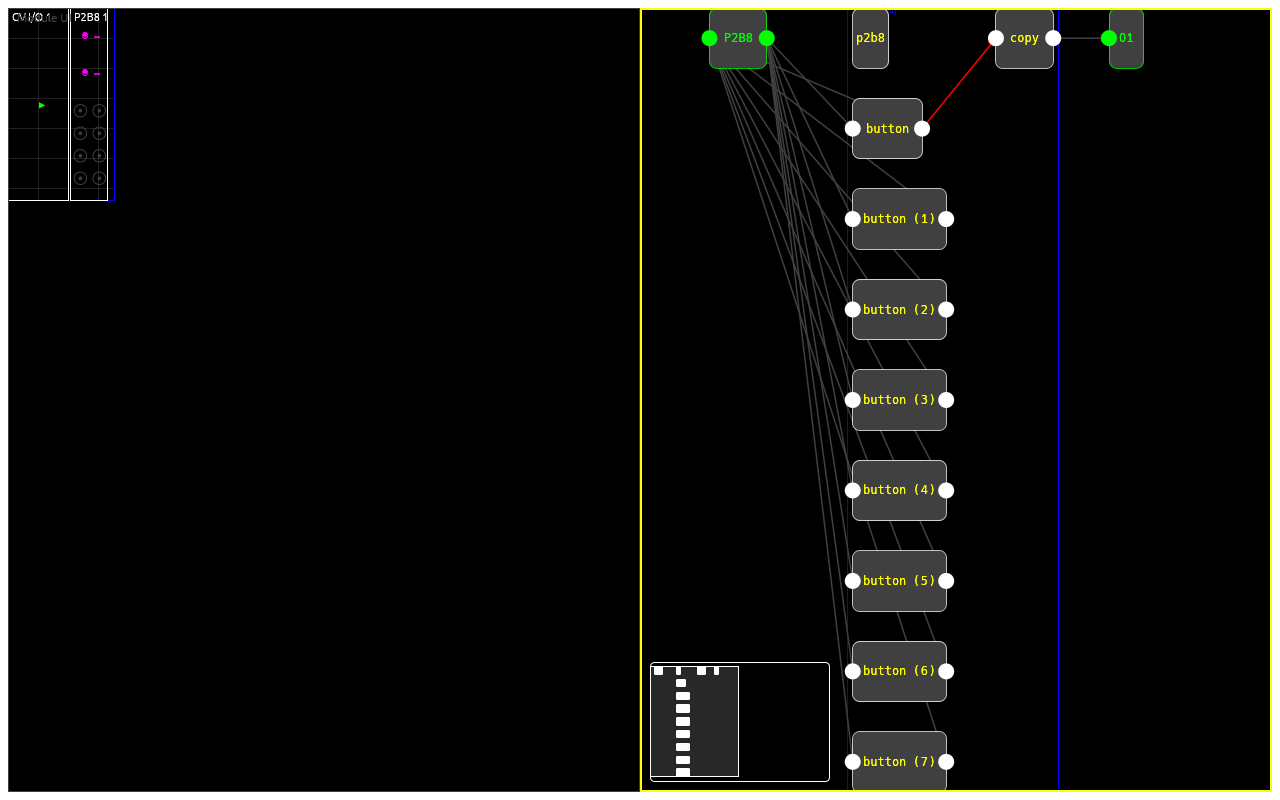
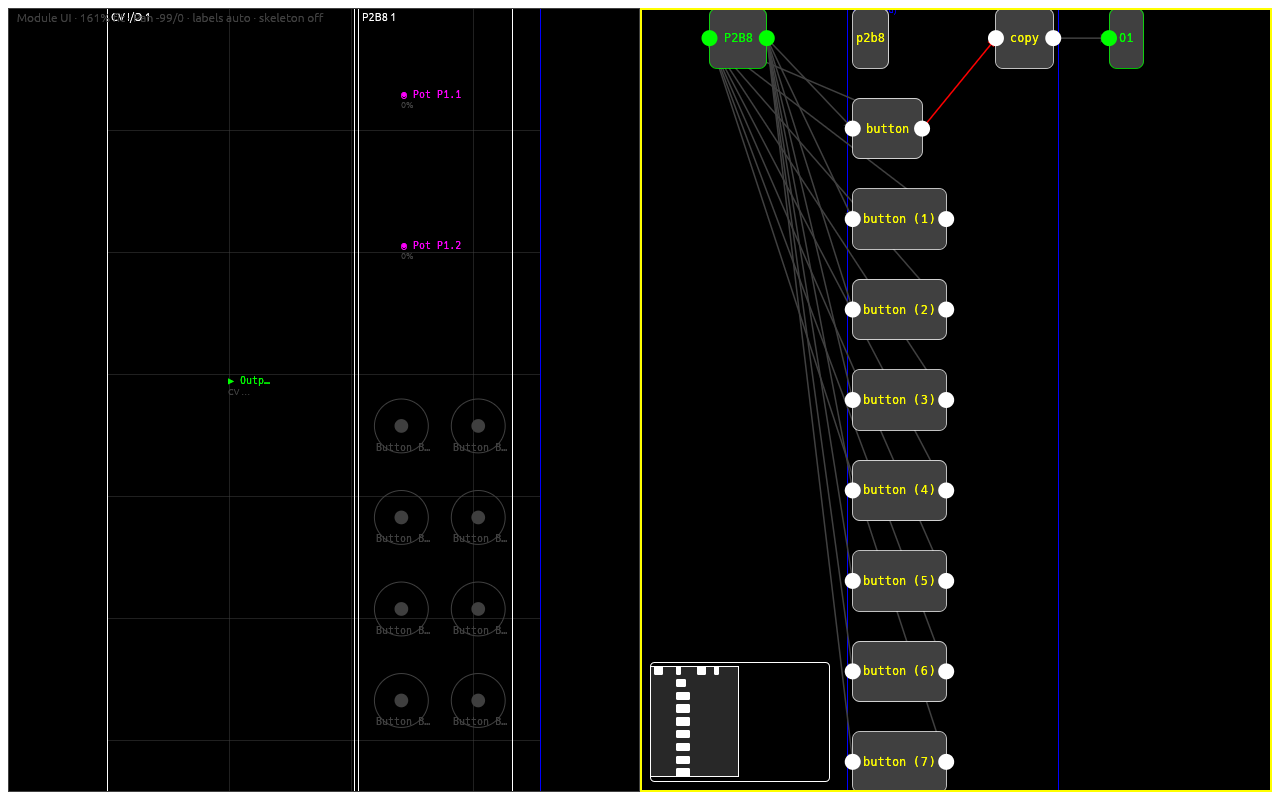
3.4: re-render module-UI shots at true 1:1 and add the annotation-layer shot
The 1:1 rebaseline and fit-on-open move every module-UI-bearing render: the
rack now paints at 3.7795 pt/mm and the pane fits and centres it, so the
module-UI pane of module-ui, graph, optimizer, faceplate-rotary-stack,
button-led-composition, led-register-colour, unreferenced-elements,
shift-colour, s10-switch-kinds, sections-lanes, sections-scale and
force-arrangement is re-blessed. Their graph/optimizer/viewer panes stay
pixel-identical to the previous renders (verified by crop compare) and
source-viewer.png is byte-identical, so no graph-side paint changed.

New module-ui-labels.png pins the camera at true 1:1 (setup_labels_auto,
centred from the pane geometry the first frame publishes) because the fit
would scale fixtures/module_ui_labels.ini past the size its preamble labels
were chosen for; the default `auto` presentation annotates exactly the two
clipped labels as side-bound callouts with leader lines and leaves the
fitting one in its cell.

tools/screenshots/README.md records the before/after fit and the label-mode
evidence, and its shot table names the fit zoom instead of the 2x seed the
fit supersedes.

diff --git a/tools/screenshots/src/main.rs b/tools/screenshots/src/main.rs
@@ -131,13 +131,60 @@ struct Shot {
 
 fn setup_startup(_app: &mut App) {}
 
+/// The annotation-layer shot (change `module-ui-labels`, task 3.4): the startup
+/// arrangement at true 1:1, the size `fixtures/module_ui_labels.ini`'s preamble
+/// labels were chosen for — at 1:1 a 9 mm B32 button cell budgets five 10 pt
+/// characters, so "Trigger input" and "Clock reset" clip while "Go" fits, and
+/// the default `auto` presentation annotates exactly the two clipped labels.
+///
+/// The startup fit would scale this ~91 mm rack past 1:1 (the harness pane is
+/// taller than one true-size rack), which both hides the clipping and leaves no
+/// side band for the callouts, so the shot pins the zoom. The camera is centred
+/// for the pinned zoom without hard-coding a layout number: the startup pane is
+/// published through the same `refresh_hit_geometry` call the first painted
+/// frame makes, one fit gives the rack's real extent (the fit offset is
+/// `(rack·zoom − pane)/2` per axis), and the pinned offset re-centres that same
+/// extent. The manual-navigation latch then keeps the pane-resize trigger from
+/// refitting over the pinned camera. Field writes before paint only —
+/// deterministic, no input.
+fn setup_labels_auto(app: &mut App) {
+    setup_startup(app);
+    app.refresh_hit_geometry(app::Rect::new(0, 0, VIEWPORT.0 as u16, VIEWPORT.1 as u16));
+    let Some((_, pane)) = app
+        .pane_hit_rects
+        .iter()
+        .find(|(id, _)| *id == PaneId::BigLeft)
+    else {
+        return;
+    };
+    let (pane_w, pane_h) = (pane.width as f32, pane.height as f32);
+    if !app.fit_physical_view(pane_w, pane_h) {
+        return;
+    }
+    let fit = app.physical_zoom as f64;
+    let (off_x, off_y) = (app.physical_offset.0 as f64, app.physical_offset.1 as f64);
+    let rack_w = (pane_w as f64 + 2.0 * off_x) / fit;
+    let rack_h = (pane_h as f64 + 2.0 * off_y) / fit;
+    app.physical_zoom = 1.0;
+    app.scale_factor = 1.0;
+    app.physical_offset = (
+        ((rack_w - pane_w as f64) / 2.0) as f32,
+        ((rack_h - pane_h as f64) / 2.0) as f32,
+    );
+    // 1:1 is the shot's subject, not the pane's fit, so the title carries the
+    // plain zoom; the latch keeps the first frame's fit trigger inert.
+    app.physical_fit_zoom = None;
+    app.physical_fit_pending = false;
+    app.physical_nav_latched = true;
+}
+
 /// The startup arrangement, zoomed so the module UI's rack fills its pane.
 /// The six-controller faceplate fixture draws a ~207 mm rack — wider than any
 /// other shot's — so at the default 1:1 zoom its faceplates are only ~38 px
-/// wide and the element stacks are hard to judge. 2x is the largest integer
-/// zoom that still keeps master plus all six controllers inside the
-/// half-width pane at 1280x800 (the drawn rack spans 620 x 766 px there);
-/// `setup_startup` runs first so the arrangement stays the startup one.
+/// wide and the element stacks are hard to judge. The 2x seed below predates
+/// the true-1:1 rebaseline (then 207 mm at 2x spanned 620 x 766 px); since
+/// `module-ui-labels` the pane fits itself on its first frame, so the fit
+/// supersedes this seed and the shot opens at the pane's fit zoom instead.
 fn setup_faceplate_stack(app: &mut App) {
     setup_startup(app);
     app.physical_zoom = 2.0;
@@ -213,6 +260,19 @@ fn shots() -> Vec<Shot> {
             file: "module-ui.png",
             fixture: "fixtures/own_buttons.ini",
             setup: setup_startup,
+        },
+        // Label-annotation check (change `module-ui-labels`, task 3.4): the
+        // fixture's preamble labels are sized for the B32's 9 mm button cells
+        // at true 1:1, so "Trigger input" and "Clock reset" overflow their
+        // cells while "Go" fits. Under the default `auto` presentation the
+        // two clipped labels become side-bound callouts with leader lines and
+        // "Go" is never annotated, in the same frame that shows the rack at
+        // true size (fit-on-open, centred). No field write beyond the startup
+        // arrangement: the annotation layer is the shipped default.
+        Shot {
+            file: "module-ui-labels.png",
+            fixture: "fixtures/module_ui_labels.ini",
+            setup: setup_labels_auto,
         },
         Shot {
             file: "graph.png",
@@ -403,7 +463,7 @@ fn fnv1a(bytes: &[u8]) -> u64 {
 fn usage() -> ! {
     eprintln!("usage: screenshots [--root DIR] [--out DIR] [--bless] [--only a,b,c]");
     eprintln!(
-        "  shots: module-ui, graph, source-viewer, optimizer, faceplate-rotary-stack, button-led-composition, led-register-colour, unreferenced-elements, shift-colour, s10-switch-kinds, sections-lanes, sections-scale, force-arrangement, large-startup, large-graph"
+        "  shots: module-ui, module-ui-labels, graph, source-viewer, optimizer, faceplate-rotary-stack, button-led-composition, led-register-colour, unreferenced-elements, shift-colour, s10-switch-kinds, sections-lanes, sections-scale, force-arrangement, large-startup, large-graph"
     );
     std::process::exit(2);
 }
@@ -447,6 +507,7 @@ fn main() {
 
     let names = [
         "module-ui",
+        "module-ui-labels",
         "graph",
         "source-viewer",
         "optimizer",

diff --git a/tools/screenshots/README.md b/tools/screenshots/README.md
@@ -7,16 +7,17 @@ through the app's real egui dispatch — headless, no window, no hand captures.
 
 | PNG | Fixture | Arrangement |
 |---|---|---|
-| `module-ui.png` | `fixtures/own_buttons.ini` | startup: module UI (left big) + source viewer (small) |
+| `module-ui.png` | `fixtures/own_buttons.ini` | startup: module UI (left big) at its fit zoom + source viewer (small) |
+| `module-ui-labels.png` | `fixtures/module_ui_labels.ini` | startup at a pinned true 1:1 camera (`setup_labels_auto`): module UI (left big) + source viewer (small); the default `auto` presentation annotates the two clipped preamble labels as side-bound callouts while the fitting label stays in its cell |
 | `graph.png` | `fixtures/own_buttons.ini` | + signal-flow graph (right big) |
 | `source-viewer.png` | `fixtures/source_navigation.ini` | source viewer maximized |
 | `optimizer.png` | `fixtures/optimizer_latency.ini` | + latency optimizer (small) |
 | `faceplate-rotary-stack.png` | `fixtures/faceplate_rotary_stack.ini` | startup: module UI (left big) + source viewer (small); all six corrected faceplates (P2B8, P4B2, P10, S10, E4, DB8E) in one frame |
-| `button-led-composition.png` | `fixtures/button_led_composition.ini` | startup arrangement at 2x zoom (`setup_faceplate_stack`): module UI (left big) + source viewer (small); P2B8 + B32 round button faces, M4 touch-plate rectangles, and one LED-less pot in one frame |
-| `led-register-colour.png` | `fixtures/led_register_colour.ini` | startup arrangement at 2x zoom (`setup_faceplate_stack`): module UI (left big) + source viewer (small); lit coloured P2B8 button face and M4 touch plate beside the dynamic-cable and sourceless white fallbacks in one frame |
-| `unreferenced-elements.png` | `fixtures/unreferenced_elements.ini` | startup arrangement at 2x zoom (`setup_faceplate_stack`): module UI (left big) + source viewer (small); partial B32 (5 of 32 buttons, 27 dimmed) beside a bare E4 (124 dimmed ring segments) in one frame |
-| `shift-colour.png` | `fixtures/button_led_composition.ini` | 2x stack zoom plus active Group2 (`setup_shift_colour`): module UI (left big) + source viewer (small); Group2 member faces tinted in the group token beside unshifted Group1/Group3 faces in one frame |
-| `s10-switch-kinds.png` | `fixtures/s10_switch_kinds.ini` | startup arrangement at 2x zoom (`setup_faceplate_stack`): module UI (left big) + source viewer (small); bare S10 full front with rotary-round S1.1/S1.2 above toggle-square S1.3–S1.10 in one frame |
+| `button-led-composition.png` | `fixtures/button_led_composition.ini` | startup arrangement at the pane's fit zoom (`setup_faceplate_stack`): module UI (left big) + source viewer (small); P2B8 + B32 round button faces, M4 touch-plate rectangles, and one LED-less pot in one frame |
+| `led-register-colour.png` | `fixtures/led_register_colour.ini` | startup arrangement at the pane's fit zoom (`setup_faceplate_stack`): module UI (left big) + source viewer (small); lit coloured P2B8 button face and M4 touch plate beside the dynamic-cable and sourceless white fallbacks in one frame |
+| `unreferenced-elements.png` | `fixtures/unreferenced_elements.ini` | startup arrangement at the pane's fit zoom (`setup_faceplate_stack`): module UI (left big) + source viewer (small); partial B32 (5 of 32 buttons, 27 dimmed) beside a bare E4 (124 dimmed ring segments) in one frame |
+| `shift-colour.png` | `fixtures/button_led_composition.ini` | pane-fit zoom plus active Group2 (`setup_shift_colour`): module UI (left big) + source viewer (small); Group2 member faces tinted in the group token beside unshifted Group1/Group3 faces in one frame |
+| `s10-switch-kinds.png` | `fixtures/s10_switch_kinds.ini` | startup arrangement at the pane's fit zoom (`setup_faceplate_stack`): module UI (left big) + source viewer (small); bare S10 full front with rotary-round S1.1/S1.2 above toggle-square S1.3–S1.10 in one frame |
 | `sections-lanes.png` | `fixtures/graph_topology_error.ini` | + signal-flow graph (right big) in `LayoutMode::Sections` (`setup_sections`): one patch-order lane row carrying both banner groups as contiguous bands |
 | `sections-scale.png` | `fixtures/own_scale.ini` | same arrangement over the 509-section scale anchor: the width-aware lanes wrap into a ~1.34 aspect grid of rows instead of a 40:1 ribbon |
 | `force-arrangement.png` | `fixtures/graph_dependency_walk.ini` | + signal-flow graph (right big) in `LayoutMode::Force` with the arrangement-aware `S` panel open (`setup_force_sliders`): the solved force layout separated into non-intersecting bodies beside the panel's Repulsion / Cohesion / Cable rows |
@@ -31,8 +32,34 @@ controllers whose faceplate geometry moved to the measured panel arrangement,
 so every corrected element arrangement — the P2B8/P4B2/P10 pot stacks, the S10
 rotary stack, the E4 encoder stack, and the DB8E encoder below its buttons —
 reads in one 1280x800 frame. The module UI pane carries the startup
-arrangement and is zoomed to 2x (`setup_faceplate_stack`) so the ~207 mm rack
-of master plus six controllers fills the pane instead of rendering 38 px wide.
+arrangement and opens at the pane's fit zoom (`setup_faceplate_stack`), so the
+~207 mm rack of master plus six controllers fills the pane at ~80 % instead of
+rendering 38 px wide at the old nominal scale.
+
+Every module-UI-bearing shot now renders at true 1:1 (change
+`module-ui-labels`, task 3.4): 100 % zoom is 3.7795 pt per millimetre, so a
+9 mm button cell is 34 pt and a 12 mm pot 45 pt, and the pane fits and centres
+the rack itself on its first frame. Each shot's pane title carries the live
+state (`Module UI · 161% fit · labels auto · skeleton off`), so the fit
+percentage printed in the image is the evidence. The `setup_faceplate_stack`
+2x seed is now superseded by that fit (207 mm at 2x would overflow the pane);
+it stays as the pre-fit camera. The graph, optimizer, and source-viewer panes
+are unaffected: every graph-bearing shot's right pane is pixel-identical to
+its pre-change render, and `source-viewer.png` is byte-identical.
+
+`module-ui-labels.png` is the visual check for change `module-ui-labels`
+(task 3.4) and the only shot that pins the camera instead of taking the fit.
+`fixtures/module_ui_labels.ini`'s three preamble labels are chosen for the
+B32's 9 mm buttons at true 1:1 — "Go" fits the cell's five-character budget
+while "Trigger input" and "Clock reset" clip — so at 1:1 the default `auto`
+presentation annotates exactly the two clipped labels as side-bound callouts
+with leader lines and the resolved state, and leaves "Go" alone on the rack.
+The camera is centred at 1:1 (`setup_labels_auto`) because the fitted zoom
+would both scale the rack past the size the fixture measures and leave no side
+band for the callouts. The other two modes need no shot: `off` draws no
+annotations and `on` annotates every addressed label, both pinned by the
+`src/gui/physical.rs` and `src/regression.rs` tests, so this shot carries the
+clipping-driven rule that makes `auto` the default.
 
 Resolved gap (change `unreferenced-elements`, task 3.2): the E4 32-LED rings
 now render complete — unreferenced ring segments paint dimmed and unlabelled,
@@ -58,14 +85,14 @@ brightness via literal `ledcolor`/`ledvalue`), so the lit coloured faces —
 the P2B8 state circle filled in its mapped colour, the M4 plate filled
 likewise — read beside the two fallbacks (dynamic-cable `ledcolor` and the
 plain pair with no colour params, both rendering the white floor fill) in
-one 1280x800 startup frame at 2x. Only two controllers, so the stack zoom
-fits with margin.
+one 1280x800 startup frame at the pane's fit zoom (117 %). Only two
+controllers, so the fitted rack sits inside the pane with margin.
 
 `unreferenced-elements.png` is the visual check for change
 `unreferenced-elements` (task 3.2): its fixture pairs a partial B32 (5 of 32
 buttons via `[notebuttons]`) with a bare `[e4]`, so the 27 dimmed unlabelled
 buttons and the 124 dimmed ring segments read beside their lit siblings in
-one 1280x800 startup frame at 2x. All dimmed cells render the quiet `·`
+one 1280x800 startup frame at the pane's fit zoom (131 %). All dimmed cells render the quiet `·`
 marker with no label and no hit rect (stray fold-rule LEDs suppressed); the
 harness renders static state only, so the shot proves the quiet unlit fill,
 and the `src/regression.rs` story pins the counts instead.
@@ -84,7 +111,7 @@ byte-identical freshness is the proof.
 (task 3.2): a bare `[s10]` synthesizes the full 10-switch front whose S-family
 geometry annotates S1.1/S1.2 `rotary` and the rest toggle, so the round
 rotary glyphs read above the square toggle glyphs on one faceplate in a
-1280x800 startup frame at 2x. Unannotated-switch faces keep the toggle glyph
+1280x800 startup frame at the pane's fit zoom (161 %). Unannotated-switch faces keep the toggle glyph
 by construction (the unannotated scenario), so no second shot is needed.
 
 `sections-lanes.png` and `sections-scale.png` are the visual check for change

diff --git a/openspec/changes/module-ui-labels/tasks.md b/openspec/changes/module-ui-labels/tasks.md
@@ -23,5 +23,5 @@
 - [x] 3.1 Add `fixtures/module_ui_labels.ini` (a rack whose labels both fit and overflow their cells) plus `src/regression.rs` stories: the rack opens fitted at 1:1, an element cell is its true millimetre size, a clipped label is annotated while a fitting one is not, and switching label modes leaves the hit rects and skeleton rects identical. Verify with `cargo test regression::`. <!-- agent: horst-engineer.build, depends_on: [1.6, 2.6], touches: [fixtures/module_ui_labels.ini, src/regression.rs] -->
 - [x] 3.2 Sweep every remaining scale-dependent assertion across the suite to the new baseline (app, handler, config, gui/mod, gui/physical, physical tests that encoded 1.5 pt/mm or the old fit), without weakening a test's intent. Verify with a full `cargo test --locked` run that is green. <!-- agent: horst-engineer.build, depends_on: [3.1], touches: [src/app.rs, src/handler.rs, src/config.rs, src/gui/mod.rs, src/gui/physical.rs, src/physical.rs] -->
 - [x] 3.3 Run the perf gate in release at the new scale and extend it with a module-UI paint phase if the annotation layer proves non-trivial, reusing the existing `budgeted` watchdog. Verify with `cargo test --release --test perf_gate --locked`. <!-- agent: horst-engineer.fast, depends_on: [2.3], touches: [tests/perf_gate.rs] -->
-- [ ] 3.4 Re-render the module-UI documentation shots at the new scale and record the change evidence (before/after fit, label modes). Verify with the screenshot check command and by reading the regenerated images. <!-- agent: devops-engineer.fast, depends_on: [3.2], touches: [docs/assets/**, tools/screenshots/**] -->
+- [x] 3.4 Re-render the module-UI documentation shots at the new scale and record the change evidence (before/after fit, label modes). Verify with the screenshot check command and by reading the regenerated images. <!-- agent: devops-engineer.fast, depends_on: [3.2], touches: [docs/assets/**, tools/screenshots/**] -->
 - [ ] 3.5 Run the full gate at CI parity — `cargo fmt --check`, `cargo clippy --all-targets --all-features --locked -- -D warnings`, `cargo test --locked`, `cargo build --release --locked`, and the release perf gate — and confirm every command exits 0. <!-- agent: horst-engineer.fast, depends_on: [3.2, 3.3, 3.4], touches: [] -->
